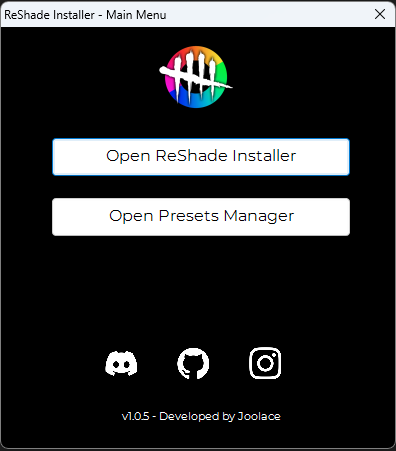
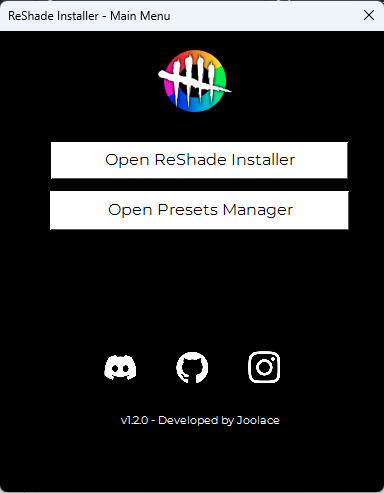
screenshots updated

diff --git a/index.html b/index.html
@@ -278,26 +278,14 @@
         <section>
             <h2>Screenshots</h2>
             <div class="screenshots-gallery">
-                <a href="./screenshots/bootscreen.png" class="glightbox" data-gallery="dbd-gallery" data-title="Boot Screen">
-                    <img src="./screenshots/bootscreen.png" alt="Boot Screen" width="150">
+                <a href="./screenshots/bootscreen.png" class="glightbox" data-gallery="dbd-gallery" data-title="Main Menu">
+                    <img src="./screenshots/bootscreen.png" alt="Main Menu" width="150">
                 </a>
-                <a href="./screenshots/dbdreshadeboot.png" class="glightbox" data-gallery="dbd-gallery" data-title="ReShade Boot">
-                    <img src="./screenshots/dbdreshadeboot.png" alt="ReShade Boot" width="150">
+                <a href="./screenshots/dbdreshade.png" class="glightbox" data-gallery="dbd-gallery" data-title="Main Menu">
+                    <img src="./screenshots/dbdreshade.png" alt="Main Menu" width="150">
                 </a>
-                <a href="./screenshots/dbdreshadepresetboot.png" class="glightbox" data-gallery="dbd-gallery" data-title="ReShade Preset Boot">
-                    <img src="./screenshots/dbdreshadepresetboot.png" alt="ReShade Preset Boot" width="150">
-                </a>
-                <a href="./screenshots/dbdreshadepresetinstalled.png" class="glightbox" data-gallery="dbd-gallery" data-title="ReShade Preset Installed">
-                    <img src="./screenshots/dbdreshadepresetinstalled.png" alt="ReShade Preset Installed" width="150">
-                </a>
-                <a href="./screenshots/dbdreshadepresetsaved.png" class="glightbox" data-gallery="dbd-gallery" data-title="ReShade Preset Saved">
-                    <img src="./screenshots/dbdreshadepresetsaved.png" alt="ReShade Preset Saved" width="150">
-                </a>
-                <a href="./screenshots/dbdreshadepresetsavedsuccess.png" class="glightbox" data-gallery="dbd-gallery" data-title="ReShade Preset Save Success">
-                    <img src="./screenshots/dbdreshadepresetsavedsuccess.png" alt="ReShade Preset Save Success" width="150">
-                </a>
-                <a href="./screenshots/dbdreshadeselectpreset.png" class="glightbox" data-gallery="dbd-gallery" data-title="ReShade Preset Selection">
-                    <img src="./screenshots/dbdreshadeselectpreset.png" alt="ReShade Preset Selection" width="150">
+                <a href="./screenshots/dbdreshadepresetmanager.png" class="glightbox" data-gallery="dbd-gallery" data-title="DBD Presets Manager">
+                    <img src="./screenshots/dbdreshadepresetmanager.png" alt="DBD Presets Manager" width="150">
                 </a>
             </div>
         </section>

diff --git a/README.md b/README.md
@@ -9,26 +9,14 @@ The **ReShade Installer for Dead by Daylight** is a PowerShell script designed t
 3
 ## Screenshots
 
-### 1. Boot Screen
-![Boot Screen](./screenshots/bootscreen.png)
+### 1. Main Menu
+![Main Menu](./screenshots/bootscreen.png)
 
-### 2. ReShade Boot
-![ReShade Boot](./screenshots/dbdreshadeboot.png)
+### 2. DBD Reshade
+![DBD Reshade](./screenshots/dbdreshade.png)
 
-### 3. ReShade Preset Boot
-![ReShade Preset Boot](./screenshots/dbdreshadepresetboot.png)
-
-### 4. ReShade Preset Installed
-![ReShade Preset Installed](./screenshots/dbdreshadepresetinstalled.png)
-
-### 5. ReShade Preset Saved
-![ReShade Preset Saved](./screenshots/dbdreshadepresetsaved.png)
-
-### 6. ReShade Preset Save Success
-![ReShade Preset Save Success](./screenshots/dbdreshadepresetsavedsuccess.png)
-
-### 7. ReShade Preset Selection
-![ReShade Preset Selection](./screenshots/dbdreshadeselectpreset.png)
+### 3. DBD Presets Manager
+![DBD Reshade Presets Manager](./screenshots/dbdreshadepresetmanager.png)
 
 ## Features
 
